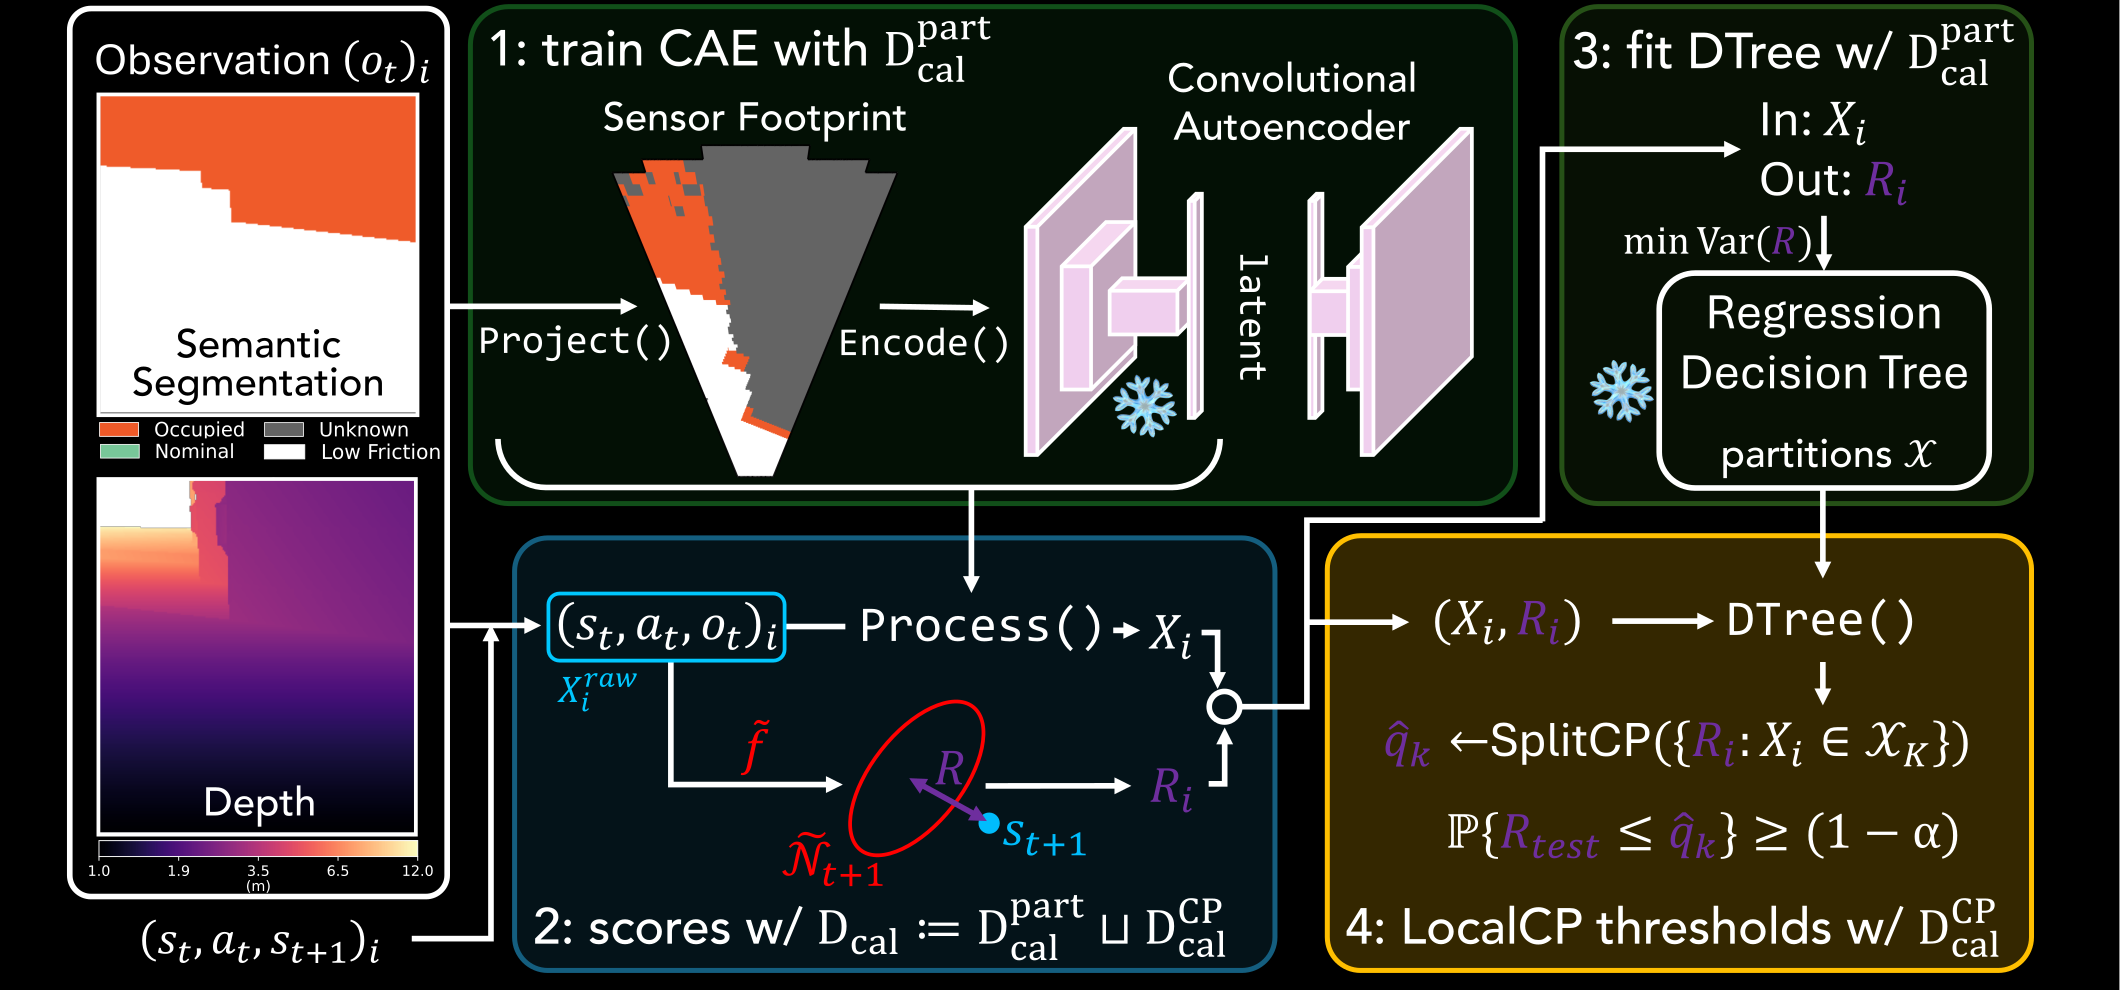
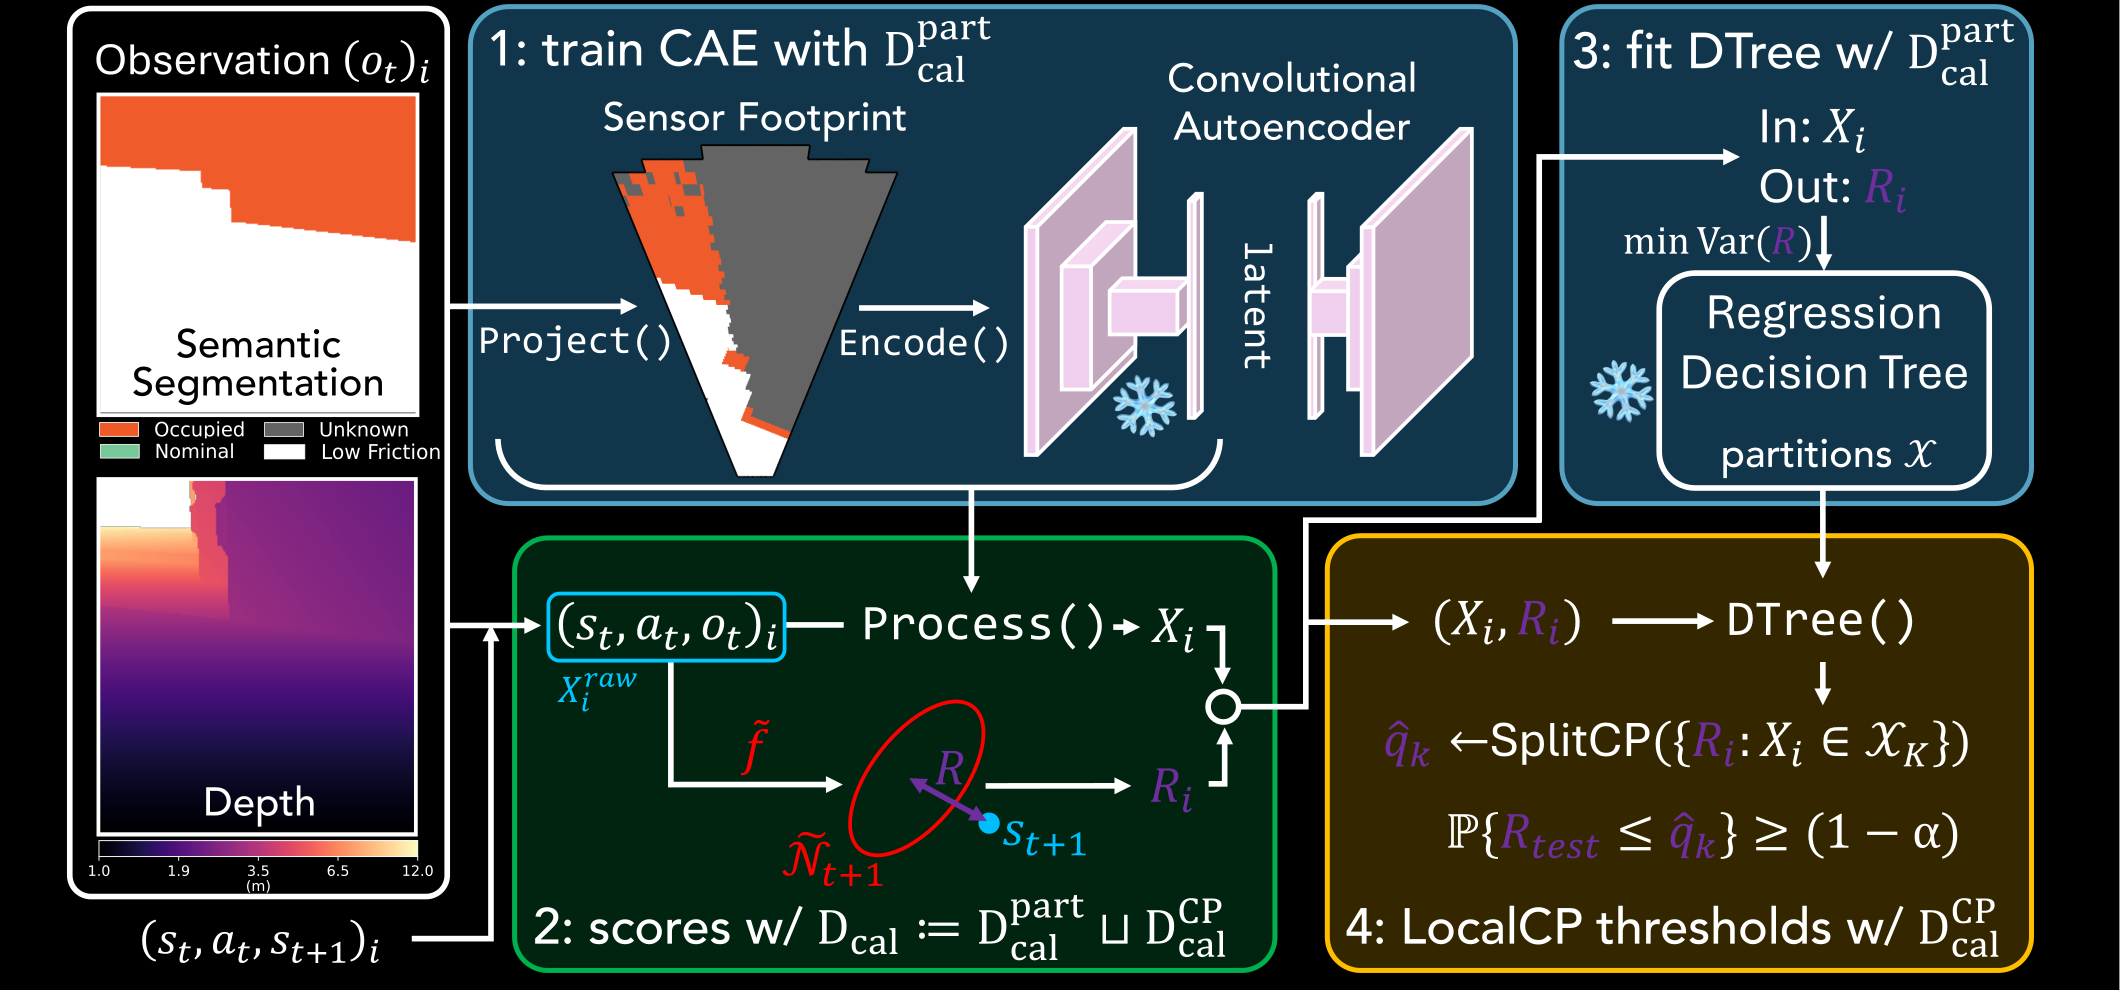
Update offline diagram colors

Changed region(s): [[0.2179, 0.0, 0.9651, 0.5455], [0.3736, 0.5455, 0.6226, 0.7273], [0.2491, 0.9697, 0.5915, 1.0]]

diff --git a/content/_index.md b/content/_index.md
@@ -47,7 +47,7 @@ $$
 
 **OCULAR** performs local conformal calibration using robot-frame perception, body velocity, and action information. It maps each observation to a planar semantic footprint `$\mathrm{Proj}(o_t)$`, encodes that footprint with a CAE, forms raw inputs `$X_t^{\mathrm{raw}}:=(v_t,a_t,\mathrm{Encode}(\mathrm{Proj}(o_t)))$`, and partitions the processed input space `$X_t:=\mathrm{Process}(X_t^{\mathrm{raw}})$` using a Regression Decision Tree fitted on scores. SplitCP is then performed per Decision Tree leaf, resulting in an input-dependent score threshold `$\hat q_k\in \mathbb R$`, which acts as a *local* probabilistic upper bound on motion uncertainty. The calibration data is split into two disjoint subsets `$D_{\mathrm{cal}} = D_{\mathrm{cal}}^{\mathrm{part}} \sqcup D_{\mathrm{cal}}^{\mathrm{CP}}$`.
 
-{% figure(alt=["OCULAR offline calibration pipeline"] src=["./offline_diagram_v2.svg?v=20260610-depth-white"] dark_src=["./offline_diagram_v2_dark.svg?v=20260610-depth-white"]) %}
+{% figure(alt=["OCULAR offline calibration pipeline"] src=["./offline_diagram_v2.svg?v=20260610-newnew-blue"] dark_src=["./offline_diagram_v2_dark.svg?v=20260610-newnew-blue"]) %}
 **Offline component of OCULAR.** 1: observations `$o_t$` from `$D_{\mathrm{cal}}^{\mathrm{part}}$` are projected into planar footprints `$\mathrm{Proj}(o_t)$`. A CAE is trained to reconstruct these footprints, and the decoder is discarded. 2: All data in `$D_{\mathrm{cal}}$` is represented as `$X_i^{\mathrm{raw}}:=(v_{t,i},a_{t,i},\mathrm{Encode}(\mathrm{Proj}(o_{t,i})))$`, processed as `$X_i=\mathrm{Process}(X_i^{\mathrm{raw}})$`, and scored by `$R_i := r(s_{t+1,i}, \tilde{\mathcal N}_{t+1,i})$`. 3: a Decision Tree is trained on `$D_{\mathrm{cal}}^{\mathrm{part}}$` to partition the learned input space `$\mathcal{X}$` into regions of approximately constant score. 4: The holdout processed `$D_{\mathrm{cal}}^{\mathrm{CP}}$` data is fed through the DTree and scores are grouped per leaf node `$k$`. SplitCP is performed on each input-space partition `$\mathcal{X}_k$` to get an input-dependent probabilistic threshold `$\hat{q}_k$`.
 {% end %}
 